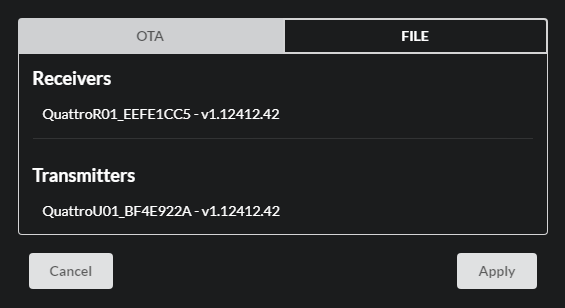
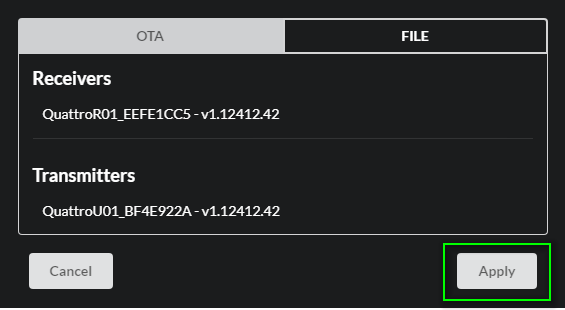
Update QP (non USB-C) via CMS

diff --git a/docs/m1/firmware-upgrade.md b/docs/m1/firmware-upgrade.md
@@ -52,6 +52,40 @@ Die Aktualisierung wird über die Web-Oberfläche in einem beliebigen Web-Browse
     
 	Sollten die Sender nach der Firmware-Aktualisierung nicht mit dem Empfänger verbinden können, müssen sie neu [gekoppelt](pairing.md) werden.
 
+## Firmware mit dem CMS installieren
 
+Mit dem CMS ([Central Management System](cms.md)) kann man die neuste Firmware vom Internet auf mehreren EZCast Pro II bzw. QuattroPod Geräten installieren.
+
+* Wenn eine neue Firmware für den Empfänger bzw. für den Sender zur Verfügung steht, taucht die Meldung ![](/assets/img/CMS-firmware.available.png) neben dem Gerät auf:
+
+![Die Firmware wird installiert](/assets/img/CMS-firmware.OTA.select.devices.png)
+
+* Wählen Sie die gewünschten Geräte aus, anschließend klicken Sie auf die Schaltfläche `Remote` -> und wählen Sie die Funktion `Device firmware upgrade`.
+
+![Die Firmware wird installiert](/assets/img/CMS-firmware.install.latest.firmware.png)
+
+* Unter der Registerkarte `OTA`, klicken Sie einfach auf die Schaltfläche `Apply`, um die Aktualisierung durchzuführen:
+
+![Die Firmware wird installiert](/assets/img/CMS-firmware.upgrade.OTA.png)
+
+Die neue Firmware wird heruntergeladen und automatisch installiert. 
+
+* Während der Aktualisierung des Senders erscheint folgende Meldung:
+
+![Firmware-Version aktualisieren](/assets/img/Update.U01c.png)
+
+* Während der Aktualisierung des Empfängers erscheint folgende Meldung:
+
+![Firmware-Version aktualisieren](/assets/img/Update.R01.png)
+
+!!! warning "Achtung"
+    
+	Unterbrechen Sie während des Updates nicht die Stromversorgung.
+
+![](/assets/img/ProIIStick_Firmware_installing.png)
+
+!!! tip "Hinweis"
+
+     Sollten die Sender nach der Firmware-Aktualisierung nicht mit dem Empfänger verbinden können, müssen sie neu [gekoppelt](pairing.md) werden.
 
 

diff --git a/docs/mini/firmware-upgrade.md b/docs/mini/firmware-upgrade.md
@@ -57,6 +57,40 @@ Die Aktualisierung wird über die Web-Oberfläche in einem beliebigen Web-Browse
     
 	Sollten die Sender nach der Firmware-Aktualisierung nicht mit dem Empfänger verbinden können, müssen sie neu [gekoppelt](pairing.md) werden.
 
+## Firmware mit dem CMS installieren
 
+Mit dem CMS ([Central Management System](cms.md)) kann man die neuste Firmware vom Internet auf mehreren EZCast Pro II bzw. QuattroPod Geräten installieren.
+
+* Wenn eine neue Firmware für den Empfänger bzw. für den Sender zur Verfügung steht, taucht die Meldung ![](/assets/img/CMS-firmware.available.png) neben dem Gerät auf:
+
+![Die Firmware wird installiert](/assets/img/CMS-firmware.OTA.select.devices.png)
+
+* Wählen Sie die gewünschten Geräte aus, anschließend klicken Sie auf die Schaltfläche `Remote` -> und wählen Sie die Funktion `Device firmware upgrade`.
+
+![Die Firmware wird installiert](/assets/img/CMS-firmware.install.latest.firmware.png)
+
+* Unter der Registerkarte `OTA`, klicken Sie einfach auf die Schaltfläche `Apply`, um die Aktualisierung durchzuführen:
+
+![Die Firmware wird installiert](/assets/img/CMS-firmware.upgrade.OTA.png)
+
+Die neue Firmware wird heruntergeladen und automatisch installiert. 
+
+* Während der Aktualisierung des Senders erscheint folgende Meldung:
+
+![Firmware-Version aktualisieren](/assets/img/Update.U01c.png)
+
+* Während der Aktualisierung des Empfängers erscheint folgende Meldung:
+
+![Firmware-Version aktualisieren](/assets/img/Update.R01.png)
+
+!!! warning "Achtung"
+    
+	Unterbrechen Sie während des Updates nicht die Stromversorgung.
+
+![](/assets/img/ProIIStick_Firmware_installing.png)
+
+!!! tip "Hinweis"
+
+     Sollten die Sender nach der Firmware-Aktualisierung nicht mit dem Empfänger verbinden können, müssen sie neu [gekoppelt](pairing.md) werden.
 
 

diff --git a/docs/standard/firmware-upgrade.md b/docs/standard/firmware-upgrade.md
@@ -52,6 +52,40 @@ Die Aktualisierung wird über die Web-Oberfläche in einem beliebigen Web-Browse
     
 	Sollten die Sender nach der Firmware-Aktualisierung nicht mit dem Empfänger verbinden können, müssen sie neu [gekoppelt](pairing.md) werden.
 
+## Firmware mit dem CMS installieren
 
+Mit dem CMS ([Central Management System](cms.md)) kann man die neuste Firmware vom Internet auf mehreren EZCast Pro II bzw. QuattroPod Geräten installieren.
+
+* Wenn eine neue Firmware für den Empfänger bzw. für den Sender zur Verfügung steht, taucht die Meldung ![](/assets/img/CMS-firmware.available.png) neben dem Gerät auf:
+
+![Die Firmware wird installiert](/assets/img/CMS-firmware.OTA.select.devices.png)
+
+* Wählen Sie die gewünschten Geräte aus, anschließend klicken Sie auf die Schaltfläche `Remote` -> und wählen Sie die Funktion `Device firmware upgrade`.
+
+![Die Firmware wird installiert](/assets/img/CMS-firmware.install.latest.firmware.png)
+
+* Unter der Registerkarte `OTA`, klicken Sie einfach auf die Schaltfläche `Apply`, um die Aktualisierung durchzuführen:
+
+![Die Firmware wird installiert](/assets/img/CMS-firmware.upgrade.OTA.png)
+
+Die neue Firmware wird heruntergeladen und automatisch installiert. 
+
+* Während der Aktualisierung des Senders erscheint folgende Meldung:
+
+![Firmware-Version aktualisieren](/assets/img/Update.U01c.png)
+
+* Während der Aktualisierung des Empfängers erscheint folgende Meldung:
+
+![Firmware-Version aktualisieren](/assets/img/Update.R01.png)
+
+!!! warning "Achtung"
+    
+	Unterbrechen Sie während des Updates nicht die Stromversorgung.
+
+![](/assets/img/ProIIStick_Firmware_installing.png)
+
+!!! tip "Hinweis"
+
+     Sollten die Sender nach der Firmware-Aktualisierung nicht mit dem Empfänger verbinden können, müssen sie neu [gekoppelt](pairing.md) werden.
 
 

diff --git a/docs/lite/firmware-upgrade.md b/docs/lite/firmware-upgrade.md
@@ -56,6 +56,38 @@ Die Aktualisierung wird über die Web-Oberfläche in einem beliebigen Web-Browse
 
      Sollten die Sender nach der Firmware-Aktualisierung nicht mit dem Empfänger verbinden können, müssen sie neu [gekoppelt](pairing.md) werden.
 
+## Firmware mit dem CMS installieren
 
+Mit dem CMS ([Central Management System](cms.md)) kann man die neuste Firmware vom Internet auf mehreren EZCast Pro II bzw. QuattroPod Geräten installieren.
 
+* Wenn eine neue Firmware für den Empfänger bzw. für den Sender zur Verfügung steht, taucht die Meldung ![](/assets/img/CMS-firmware.available.png) neben dem Gerät auf:
 
+![Die Firmware wird installiert](/assets/img/CMS-firmware.OTA.select.devices.png)
+
+* Wählen Sie die gewünschten Geräte aus, anschließend klicken Sie auf die Schaltfläche `Remote` -> und wählen Sie die Funktion `Device firmware upgrade`.
+
+![Die Firmware wird installiert](/assets/img/CMS-firmware.install.latest.firmware.png)
+
+* Unter der Registerkarte `OTA`, klicken Sie einfach auf die Schaltfläche `Apply`, um die Aktualisierung durchzuführen:
+
+![Die Firmware wird installiert](/assets/img/CMS-firmware.upgrade.OTA.png)
+
+Die neue Firmware wird heruntergeladen und automatisch installiert. 
+
+* Während der Aktualisierung des Senders erscheint folgende Meldung:
+
+![Firmware-Version aktualisieren](/assets/img/Update.U01c.png)
+
+* Während der Aktualisierung des Empfängers erscheint folgende Meldung:
+
+![Firmware-Version aktualisieren](/assets/img/Update.R01.png)
+
+!!! warning "Achtung"
+    
+	Unterbrechen Sie während des Updates nicht die Stromversorgung.
+
+![](/assets/img/ProIIStick_Firmware_installing.png)
+
+!!! tip "Hinweis"
+
+     Sollten die Sender nach der Firmware-Aktualisierung nicht mit dem Empfänger verbinden können, müssen sie neu [gekoppelt](pairing.md) werden.

diff --git a/docs/deluxe/firmware-upgrade.md b/docs/deluxe/firmware-upgrade.md
@@ -58,4 +58,38 @@ Die Aktualisierung wird über die Web-Oberfläche in einem beliebigen Web-Browse
 	Sollten die Sender nach der Firmware-Aktualisierung nicht mit dem Empfänger verbinden können, müssen sie neu [gekoppelt](pairing.md) werden.
 
 
+## Firmware mit dem CMS installieren
 
+Mit dem CMS ([Central Management System](cms.md)) kann man die neuste Firmware vom Internet auf mehreren EZCast Pro II bzw. QuattroPod Geräten installieren.
+
+* Wenn eine neue Firmware für den Empfänger bzw. für den Sender zur Verfügung steht, taucht die Meldung ![](/assets/img/CMS-firmware.available.png) neben dem Gerät auf:
+
+![Die Firmware wird installiert](/assets/img/CMS-firmware.OTA.select.devices.png)
+
+* Wählen Sie die gewünschten Geräte aus, anschließend klicken Sie auf die Schaltfläche `Remote` -> und wählen Sie die Funktion `Device firmware upgrade`.
+
+![Die Firmware wird installiert](/assets/img/CMS-firmware.install.latest.firmware.png)
+
+* Unter der Registerkarte `OTA`, klicken Sie einfach auf die Schaltfläche `Apply`, um die Aktualisierung durchzuführen:
+
+![Die Firmware wird installiert](/assets/img/CMS-firmware.upgrade.OTA.png)
+
+Die neue Firmware wird heruntergeladen und automatisch installiert. 
+
+* Während der Aktualisierung des Senders erscheint folgende Meldung:
+
+![Firmware-Version aktualisieren](/assets/img/Update.U01c.png)
+
+* Während der Aktualisierung des Empfängers erscheint folgende Meldung:
+
+![Firmware-Version aktualisieren](/assets/img/Update.R01.png)
+
+!!! warning "Achtung"
+    
+	Unterbrechen Sie während des Updates nicht die Stromversorgung.
+
+![](/assets/img/ProIIStick_Firmware_installing.png)
+
+!!! tip "Hinweis"
+
+     Sollten die Sender nach der Firmware-Aktualisierung nicht mit dem Empfänger verbinden können, müssen sie neu [gekoppelt](pairing.md) werden.

diff --git a/docs/usb/firmware-upgrade.md b/docs/usb/firmware-upgrade.md
@@ -151,3 +151,7 @@ Die neue Firmware wird heruntergeladen und automatisch installiert.
 	Unterbrechen Sie während des Updates nicht die Stromversorgung.
 
 ![](/assets/img/ProIIStick_Firmware_installing.png)
+
+!!! tip "Hinweis"
+
+     Sollten die Sender nach der Firmware-Aktualisierung nicht mit dem Empfänger verbinden können, müssen sie neu [gekoppelt](pairing.md) werden.
